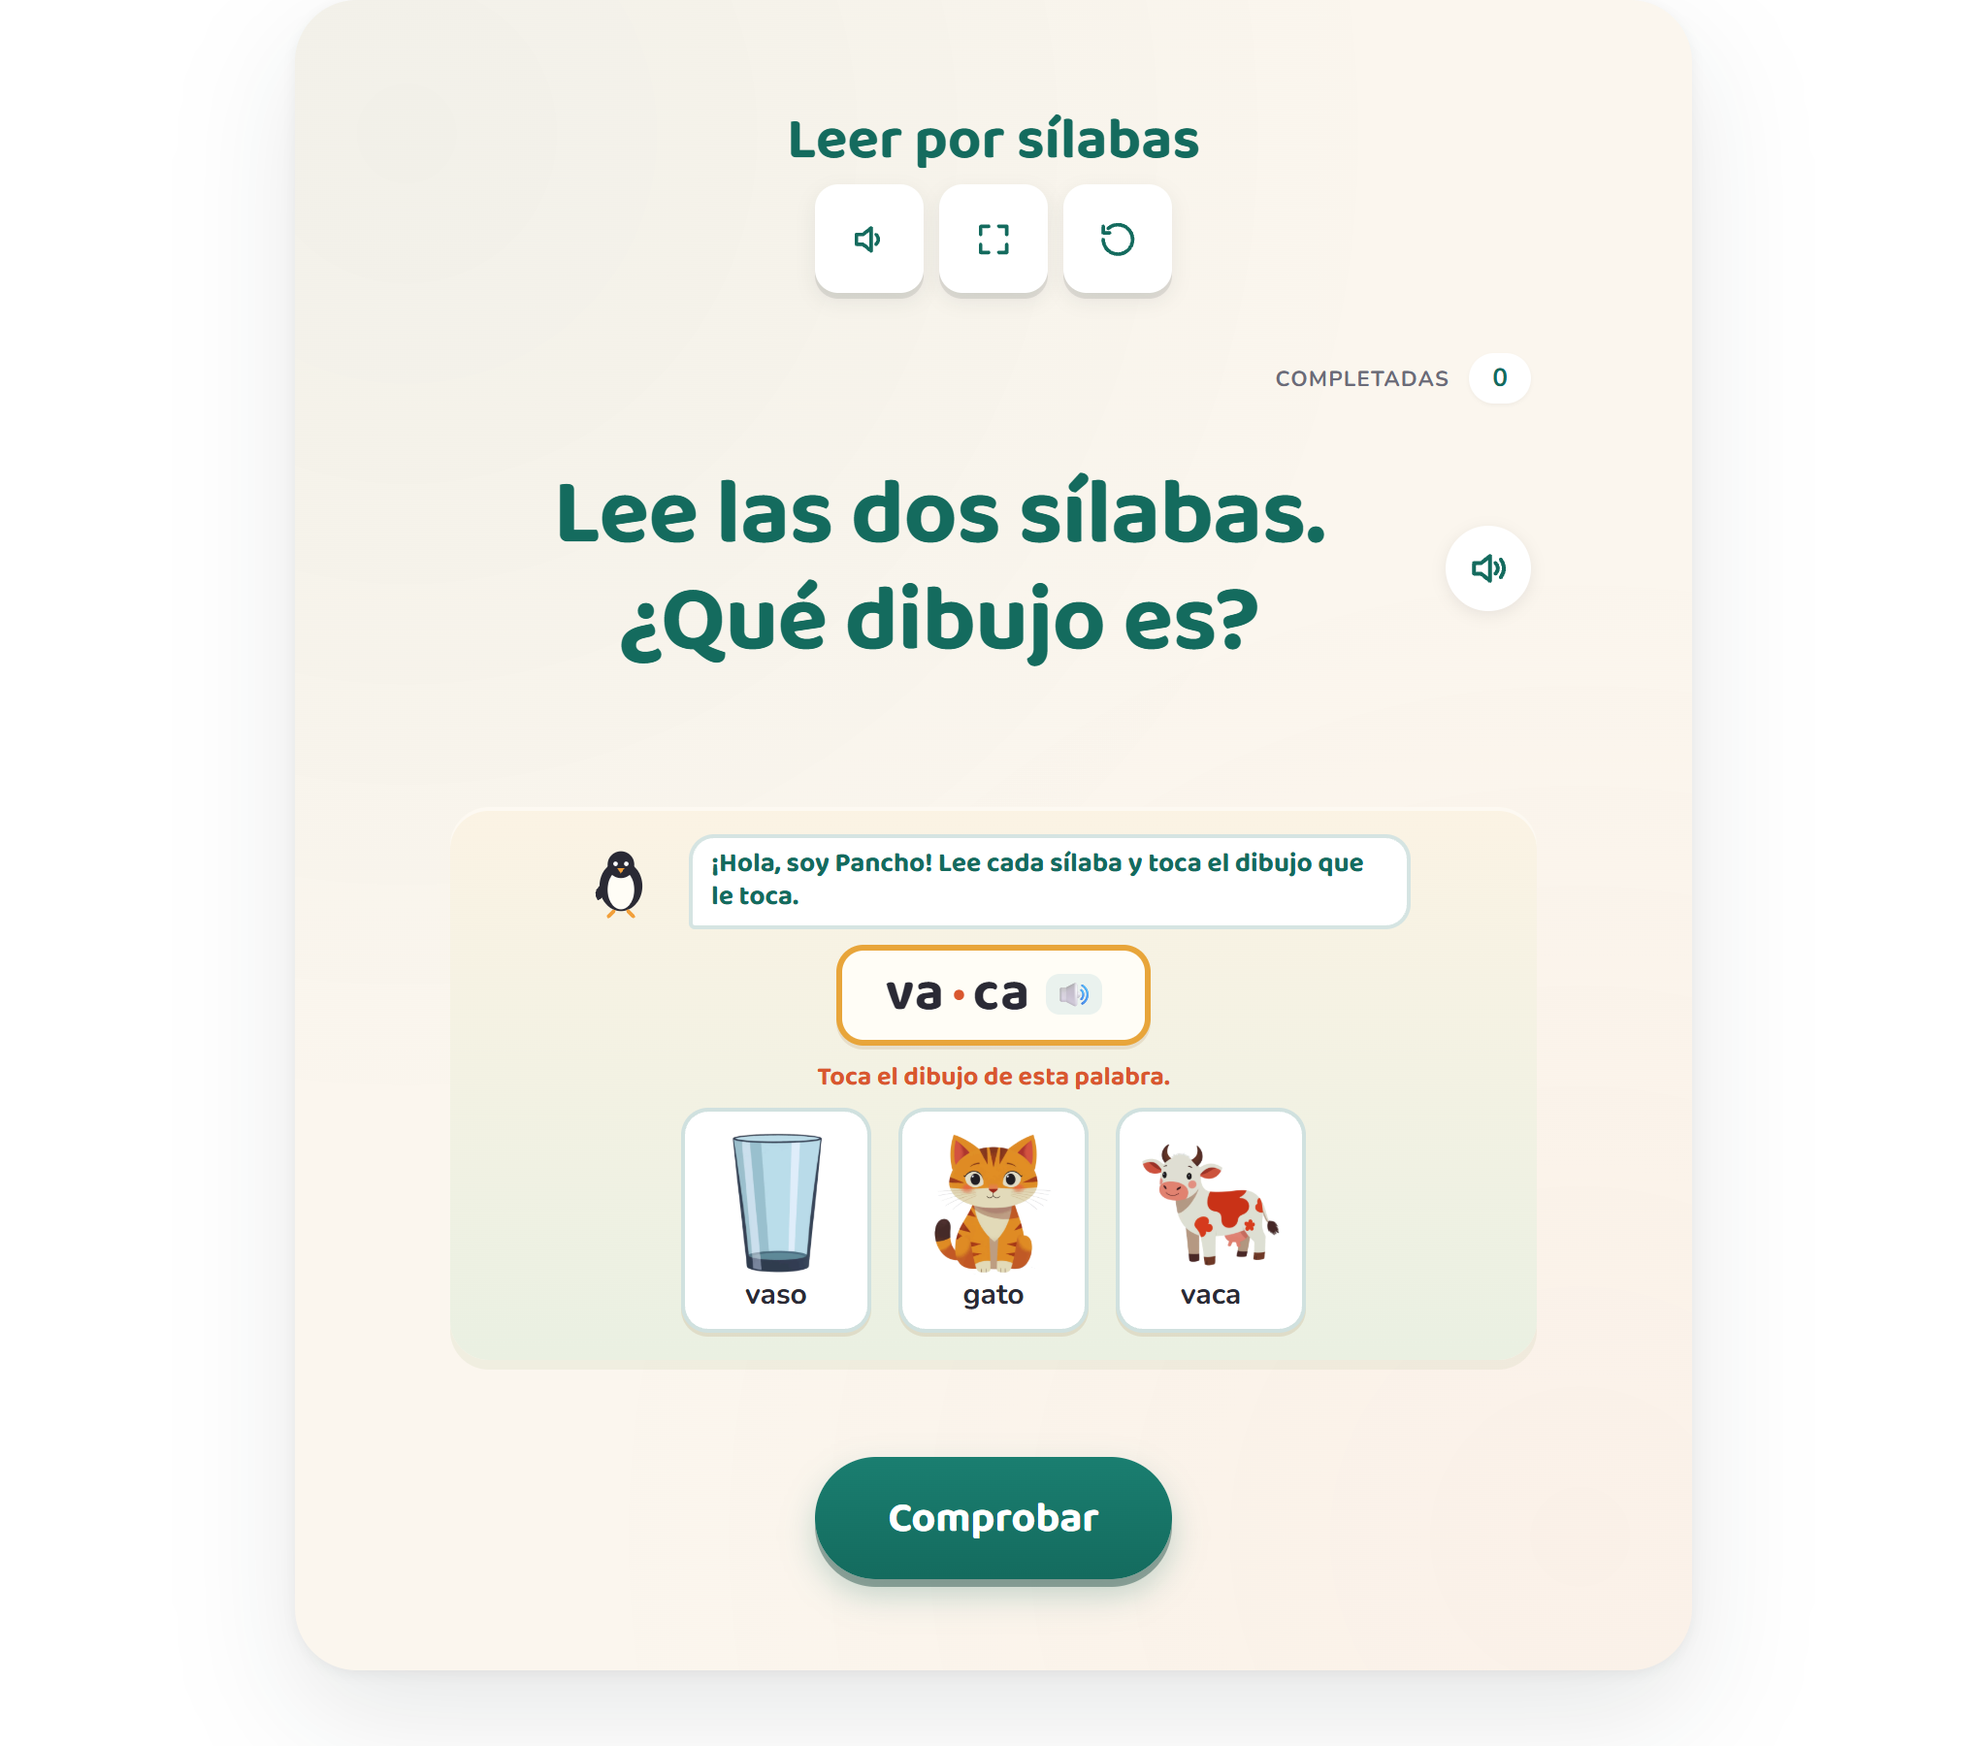
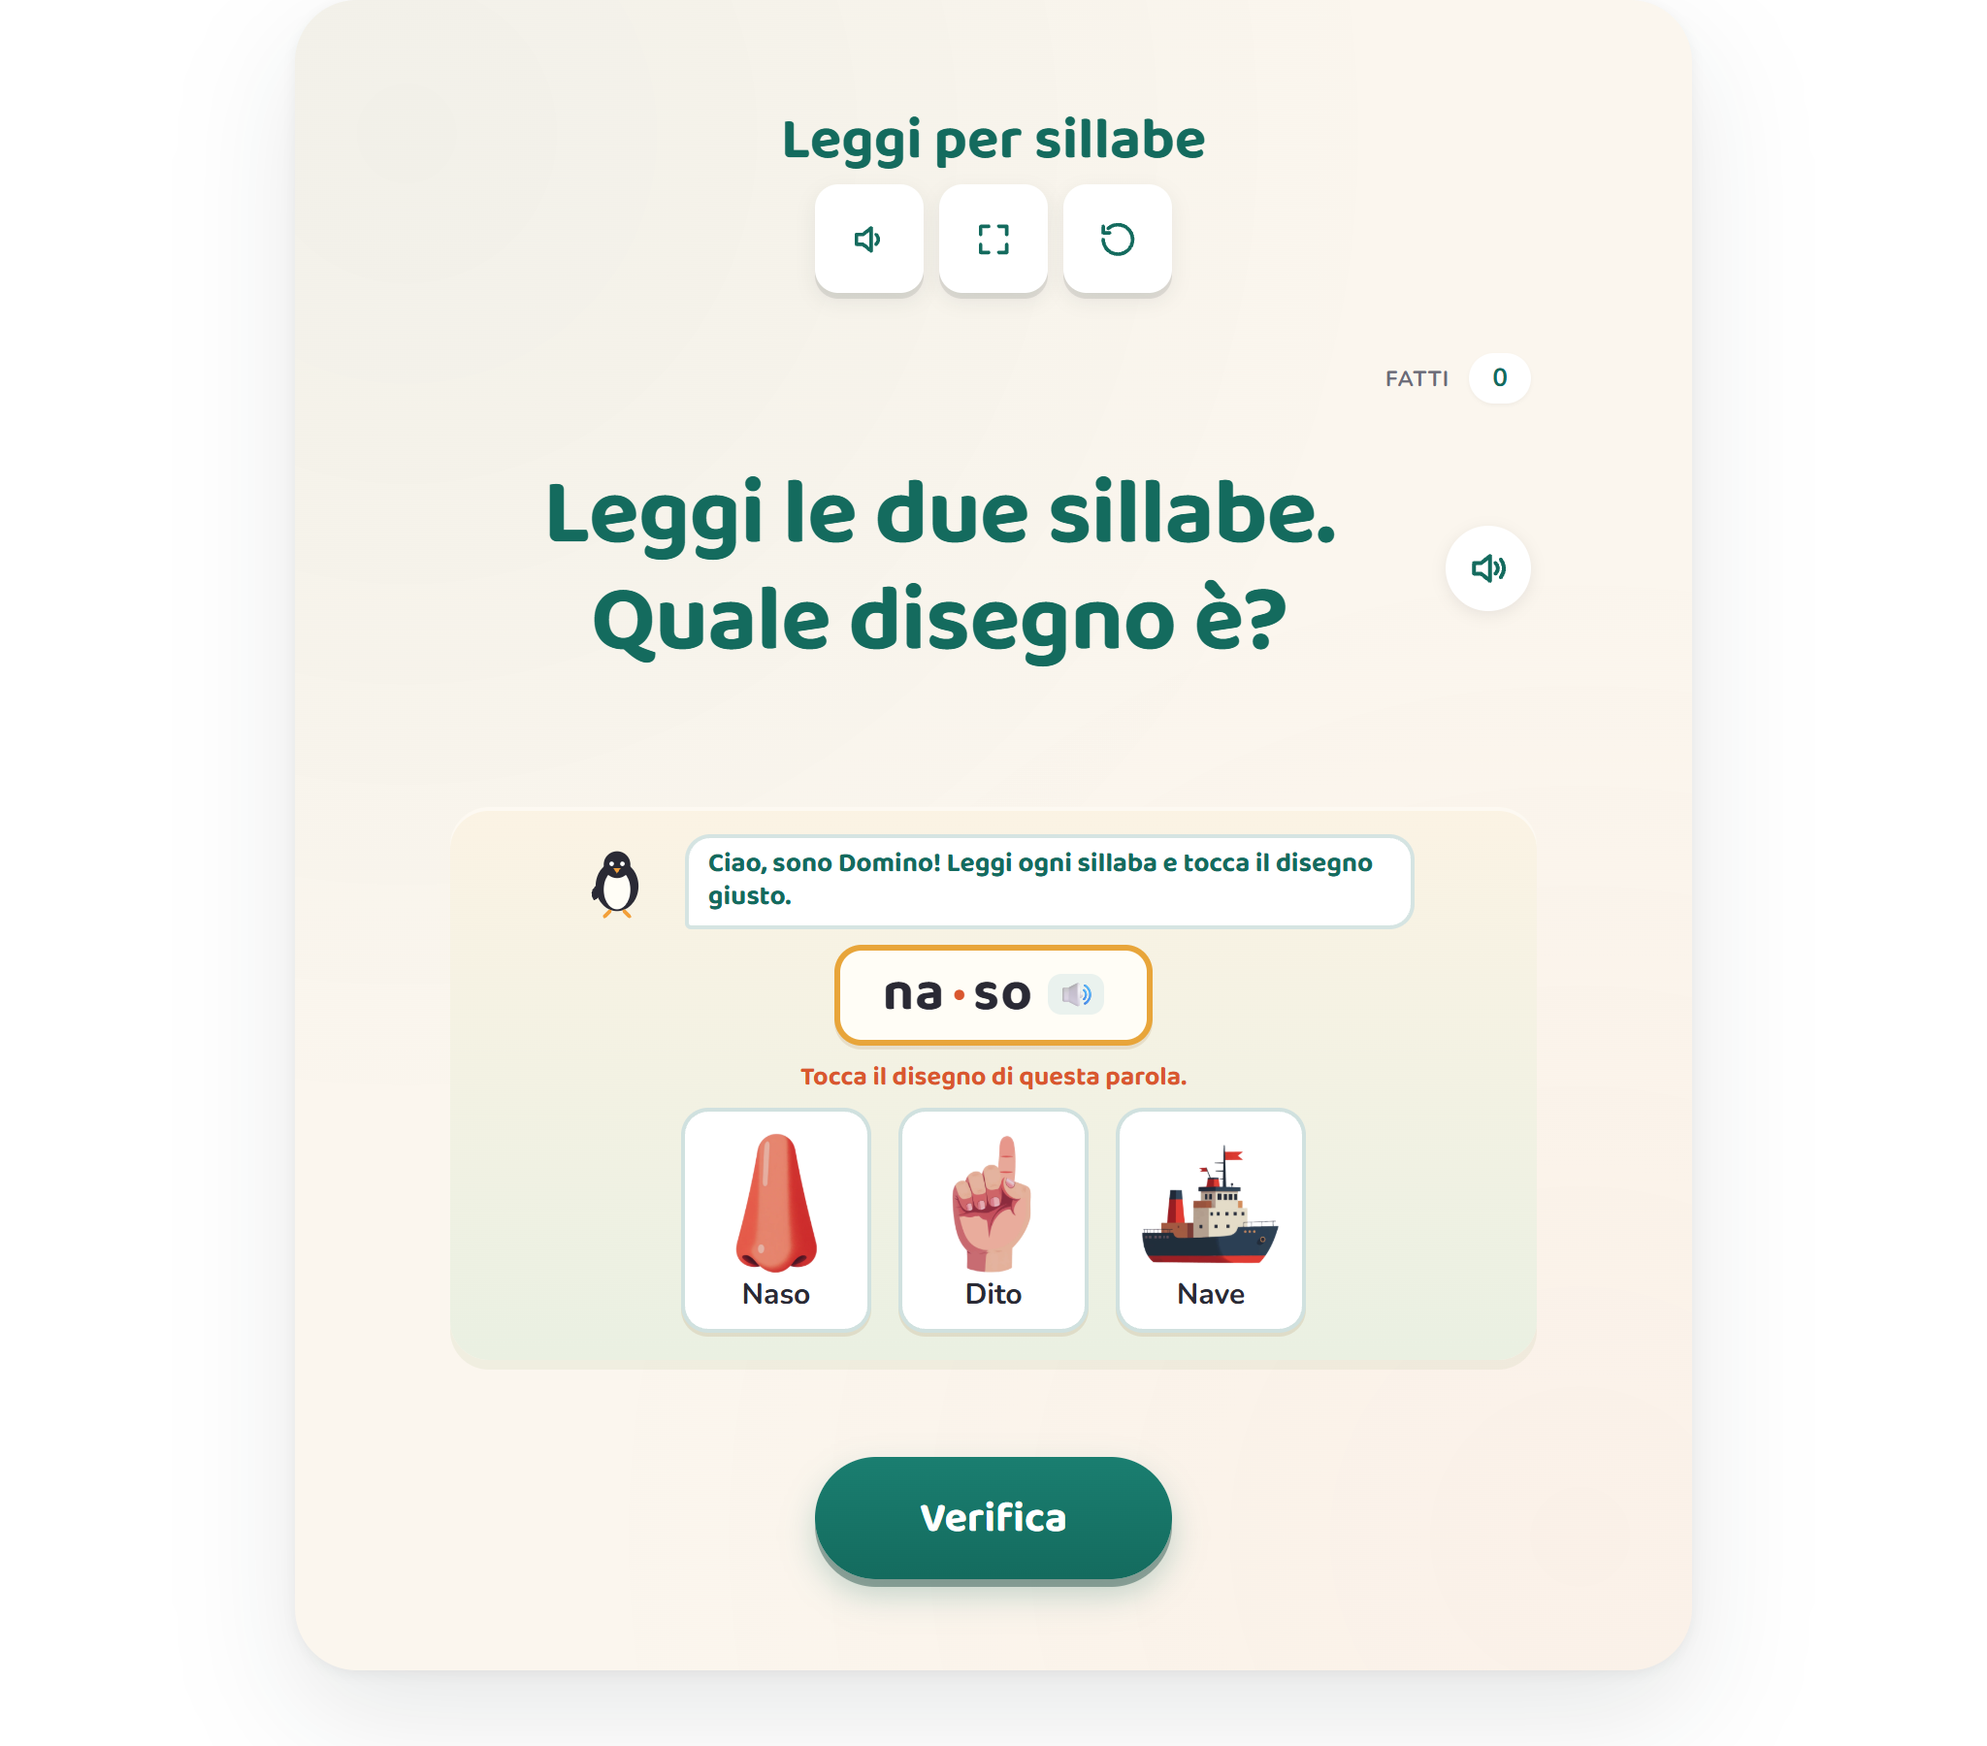
[FEAT][ACTIVITY][it] Italian rebuild -- Leggi per sillabe, two-syllable word reading (domino-two-part RF.1.3.e -> classe prima) + strand override [activity-layer roundsL10n.it + native Italian syllable set, 0 core lines]
#113 in the Italian second-batch fan-out. PHONICS/READING: a two-syllable word
shown split into its syllables (gat·to domino-style); the child reads it and
taps the matching picture among 3. es + pt both fanned it (clean fannable;
Italian reads by syllables).

- 9 rounds (roundsL10n.it), image-constrained: targets gatto/cane/luna/mela/
  naso/pera/rana/topo/palla with correct Italian syllabification (6 CV·CV +
  gat·to/pal·la geminate splits). Each {word (correct choice's EN image-key),
  displayWord, displaySyl, choices:[3×{noun,themeDir,it}]}; the engine reads
  display/labels generically -> 0 display logic change. DECODE-FORCING: >=1
  distractor shares the first syllable (gallo/casa/lupo/mento/nave/penna/rapa/
  toro/pane). All images verified present; Core.grade/oracle confirmed.
- 7 strings.it (title «Leggi per sillabe» / prompt / dominoIntro «Ciao, sono
  Domino!» / theAsk / hintPick / hintWrong / win) + word-aria «ascolta: » +
  penguin-aria «Domino il pinguino». Apostrophe-free; gender-safe win «Sì! Hai
  letto tutte e due le sillabe. 🐧». (⚠ 5 strings were initially under-scoped;
  the un-localized penguin bubble + theAsk were caught by the personal Read and
  fixed before commit -- the #96 grep-the-full-strings-object lesson.)
- GRADE classe prima (manifest grade '1' -> no override needed, = de/es/pt:
  metodo sillabico = alfabetizzazione). STRAND route override «Lettura:
  decodifica» (= #108 read-cvc: sillabe scritte/lette = decodifica strumentale,
[…]

diff --git a/frontend/app/[locale]/activities/[slug]/page.tsx b/frontend/app/[locale]/activities/[slug]/page.tsx
@@ -180,7 +180,7 @@ const STRAND_OVERRIDE: Record<string, Record<string, string>> = {
   'stretch-giraffe.long-short-vowel.rf-1-2-a': { de: 'Sprache und Sprachgebrauch untersuchen' }, // Vokallaenge = analytische Isolation+Klassifikation des betonten Selbstlauts nach dem Merkmal Quantitaet (metasprachlich, wie #106); NOT #102 „Sprechen und Zuhören"; RF hat keinen de-Eintrag in strand-names.ts -> Override setzt den Chip
   'choice-board.read-cvc-word.rf-k-3': { de: 'Lesen – mit Texten und Medien umgehen', es: 'Lectura', pt: 'Leitura: decodificação', it: 'Lettura: decodifica' }, // it: area «Lettura» delle Indicazioni; «decodifica» segnala l'atto strumentale (grafema→fonema) e lo distingue dalla comprensione (specchia pt «Leitura: decodificação»); il default RF «Comprensione del testo» sovra-legge → route override, strand-names.ts NON toccato; es/pt tengono il proprio. // Erstlesen = rezeptiv-lesende Kompetenz (KMK Kompetenzbereich Lesen, „über Lesefaehigkeiten verfuegen"); distinct from #106/#107 „untersuchen"; RF hat keinen de-Eintrag in strand-names.ts -> Override setzt den Chip. es: «Lectura» (leer/decodificar palabras = lectura inicial; el default RF es «Comprensión lectora» sobreestima; distinto de #106 «Conciencia fonémica» + #102 «Conciencia fonológica»). pt «Leitura: decodificação» — objeto BNCC exato (Decodificação/Fluência); o auto-map pt «Leitura/escuta» tem «/escuta» FALSO p/ leitura silenciosa; fica visivelmente do lado da LEITURA, distinto de #106 «Consciência fonêmica» + #102 «Consciência fonológica» (consciência/pré-leitura)
   'choice-board.onset-rime-blend.rf-k-2-c': { de: 'Lesen – mit Texten und Medien umgehen' }, // Lautsynthese = graphem-gestuetzte Leseanbahnung (Vorstufe von #108); nicht #102 auditives „Zuhören" noch #106/#107 „untersuchen"; RF hat keinen de-Eintrag in strand-names.ts -> Override setzt den Chip
-  'domino-two-part.two-syllable.rf-1-3-e': { de: 'Lesen – mit Texten und Medien umgehen', es: 'Lectura', pt: 'Leitura: decodificação' }, // pt: MESMO chip que #108 read-cvc — as sílabas aqui são ESCRITAS/lidas (método silábico = decodificação/leitura), NÃO consciência silábica (oral, #102/#106); RF auto-map pt "Leitura/escuta" tem "/escuta" falso p/ leitura silenciosa. // Silbenlesen = silbenweises Erlesen zweisilbiger Woerter (Silbenmethode, rezeptives Lesen); Bridge von #108 CVC zum fluessigen Lesen, distinct from #109 sub-syllabic; RF hat keinen de-Eintrag -> Override setzt den Chip. es «Lectura» (leer por sílabas / método silábico = lectura inicial; MISMO chip que #108 read-cvc; RF no auto-mapea es → sin override el default falso «Comprensión lectora»)
+  'domino-two-part.two-syllable.rf-1-3-e': { de: 'Lesen – mit Texten und Medien umgehen', es: 'Lectura', pt: 'Leitura: decodificação', it: 'Lettura: decodifica' }, // it: STESSO chip di #108 read-cvc — le sillabe qui sono SCRITTE/lette (metodo sillabico = decodifica/lettura strumentale), NON consapevolezza silabica orale (#102/#106); RF non ha auto-map it → override altrimenti il default falso «Comprensione del testo». classe prima = manifest grade '1' (nessun GRADE override). strand-names.ts NON toccato. // pt: MESMO chip que #108 read-cvc — as sílabas aqui são ESCRITAS/lidas (método silábico = decodificação/leitura), NÃO consciência silábica (oral, #102/#106); RF auto-map pt "Leitura/escuta" tem "/escuta" falso p/ leitura silenciosa. // Silbenlesen = silbenweises Erlesen zweisilbiger Woerter (Silbenmethode, rezeptives Lesen); Bridge von #108 CVC zum fluessigen Lesen, distinct from #109 sub-syllabic; RF hat keinen de-Eintrag -> Override setzt den Chip. es «Lectura» (leer por sílabas / método silábico = lectura inicial; MISMO chip que #108 read-cvc; RF no auto-mapea es → sin override el default falso «Comprensión lectora»)
   'fraction-equiv.same-amount.3-nf-a-3': { de: 'Zahlen und Operationen', fr: 'Nombres et calcul', it: 'Numeri' }, // it: la frazione è un NUMERO → nucleo «Numeri» (i 3 nuclei delle Indicazioni = Numeri / Spazio e figure / Relazioni, dati e previsioni); strand-names.ts non ha una voce it per "Number & Operations—Fractions" (auto-map cadrebbe sull'inglese) → override obbligatorio; = es/pt che mappano le frazioni al loro strand-numeri. strand-names.ts NON toccato. // KMK Mathematik Kompetenzbereich — Bruchteile = Zahlvorstellung; Number&Operations—Fractions hat keinen de/fr-Eintrag in strand-names.ts -> Override setzt Chip+JSON-LD (effStrand routes all surfaces through it; fr = domaine « Nombres et calcul »)
   'fox-forge.fraction.3-nf-a-1': { fr: 'Nombres et calcul', it: 'Numeri' },  // Number&Operations—Fractions has no fr in strand-names.ts (only en+de); effStrand routes the fr chip+JSON-LD through this override → strand-names.ts stays byte-identical. de keeps its strand-names.ts route (Zahlen und Operationen). IT: le frazioni SONO numeri → nucleo «Numeri» (i 3 nuclei = Numeri / Spazio e figure / Relazioni, dati e previsioni; niente nucleo frazioni in Italia). Routed via page.tsx override come fr → strand-names.ts NON toccato. GRADE = classe terza (manifest '3', nessun override): le frazioni sono introdotte in terza nelle Indicazioni; ALLINEA es 3.º + de Klasse 3; NON armonizzare a fr CM1 / pt 4º ano (loro rinviano; l'Italia no)
   'daisy-plate-stack.plurals.l-k-1-c': { de: 'Sprache und Sprachgebrauch untersuchen' }, // Numerus/Pluralbildung = grammatisch-morphologisch (nicht olive „Wortschatz"=semantisch); Language hat keinen de-Eintrag in strand-names.ts -> Override setzt den Chip
@@ -556,7 +556,7 @@ export default async function ActivityPage({ params }: { params: PageParams }) {
   // applied here to the iframe-loaded wrapper URL (the only un-busted
   // link in the activity-page → mini-tool chain). The wrapper reads
   // only `activity` / `lang` / `embed` params; `v` is harmless to it.
-  const ACTIVITY_WRAPPER_VERSION = '9.561';
+  const ACTIVITY_WRAPPER_VERSION = '9.562';
 
   const iframeSrc =
     `/mini-tools/${row.tool}.html?v=${ACTIVITY_WRAPPER_VERSION}` +

diff --git a/mini tools/domino-two-part-activity.js b/mini tools/domino-two-part-activity.js
@@ -26,7 +26,7 @@
   function shuffle(arr) { var a = arr.slice(), i, j, t; for (i = a.length - 1; i > 0; i--) { j = Math.floor(Math.random() * (i + 1)); t = a[i]; a[i] = a[j]; a[j] = t; } return a; }
 
   function penguinSVG() {
-    return '<svg class="dtp-pen-svg" viewBox="0 0 100 100" role="img" aria-label="' + (LANG === 'pt' ? 'Pingo, o pinguim' : 'Domino the penguin') + '">' +
+    return '<svg class="dtp-pen-svg" viewBox="0 0 100 100" role="img" aria-label="' + (LANG === 'pt' ? 'Pingo, o pinguim' : LANG === 'it' ? 'Domino il pinguino' : 'Domino the penguin') + '">' +
       '<ellipse cx="50" cy="56" rx="24" ry="28" fill="#2A2A35"/>' +                 /* black body */
       '<ellipse cx="50" cy="60" rx="15" ry="22" fill="#FFFDF6"/>' +                /* white belly */
       '<circle cx="50" cy="32" r="15" fill="#2A2A35"/>' +                           /* head */
@@ -41,13 +41,13 @@
     id: 'domino-two-part-activity',
 
     strings: {
-      title: { en: "Domino's Two-Part Words", de: 'Silben lesen', es: 'Leer por sílabas', pt: 'Leia por sílabas' },
-      prompt: { en: 'Read both parts — which picture?', de: 'Lies beide Silben – welches Bild?', es: 'Lee las dos sílabas. ¿Qué dibujo es?', pt: 'Leia as duas sílabas. Que desenho é?' },
-      dominoIntro: { en: 'Read each part, then blend them — which picture is it?', de: 'Hallo, ich bin Pauli! Lies jede Silbe – dann tippe das passende Bild an.', es: '¡Hola, soy Pancho! Lee cada sílaba y toca el dibujo que le toca.', pt: 'Oi, eu sou o Pingo! Leia cada sílaba e toque no desenho.' },
-      theAsk: { en: 'Tap the picture this word names.', de: 'Tippe das Bild an, das dieses Wort zeigt.', es: 'Toca el dibujo de esta palabra.', pt: 'Toque no desenho desta palavra.' },
-      hintPick: { en: 'Say the first part, then the second — tap a picture!', de: 'Lies das Wort ruhig: erst die erste Silbe, dann die zweite – tippe ein Bild an.', es: 'Di la primera sílaba, luego la segunda. ¡Toca un dibujo!', pt: 'Diga a primeira sílaba, depois a segunda. Toque num desenho!' },
-      hintWrong: { en: "Blend the two parts slowly and try once more.", de: 'Fast! Lies noch einmal beide Silben und hör genau hin.', es: 'Casi. Junta las dos sílabas otra vez, sin prisa.', pt: 'Quase! Junte as duas sílabas de novo, sem pressa.' },
-      win: { en: 'Yes! You read both parts. 🐧', de: 'Super gelesen! Du hast jede Silbe erkannt. 🐧', es: '¡Muy bien! Leíste las dos sílabas. 🐧', pt: 'Muito bem! Você leu as duas sílabas. 🐧' }
+      title: { en: "Domino's Two-Part Words", de: 'Silben lesen', es: 'Leer por sílabas', pt: 'Leia por sílabas', it: 'Leggi per sillabe' },
+      prompt: { en: 'Read both parts — which picture?', de: 'Lies beide Silben – welches Bild?', es: 'Lee las dos sílabas. ¿Qué dibujo es?', pt: 'Leia as duas sílabas. Que desenho é?', it: 'Leggi le due sillabe. Quale disegno è?' },
+      dominoIntro: { en: 'Read each part, then blend them — which picture is it?', de: 'Hallo, ich bin Pauli! Lies jede Silbe – dann tippe das passende Bild an.', es: '¡Hola, soy Pancho! Lee cada sílaba y toca el dibujo que le toca.', pt: 'Oi, eu sou o Pingo! Leia cada sílaba e toque no desenho.', it: 'Ciao, sono Domino! Leggi ogni sillaba e tocca il disegno giusto.' },
+      theAsk: { en: 'Tap the picture this word names.', de: 'Tippe das Bild an, das dieses Wort zeigt.', es: 'Toca el dibujo de esta palabra.', pt: 'Toque no desenho desta palavra.', it: 'Tocca il disegno di questa parola.' },
+      hintPick: { en: 'Say the first part, then the second — tap a picture!', de: 'Lies das Wort ruhig: erst die erste Silbe, dann die zweite – tippe ein Bild an.', es: 'Di la primera sílaba, luego la segunda. ¡Toca un dibujo!', pt: 'Diga a primeira sílaba, depois a segunda. Toque num desenho!', it: 'Leggi la prima sillaba, poi la seconda. Tocca un disegno!' },
+      hintWrong: { en: "Blend the two parts slowly and try once more.", de: 'Fast! Lies noch einmal beide Silben und hör genau hin.', es: 'Casi. Junta las dos sílabas otra vez, sin prisa.', pt: 'Quase! Junte as duas sílabas de novo, sem pressa.', it: 'Quasi! Unisci le due sillabe con calma e riprova.' },
+      win: { en: 'Yes! You read both parts. 🐧', de: 'Super gelesen! Du hast jede Silbe erkannt. 🐧', es: '¡Muy bien! Leíste las dos sílabas. 🐧', pt: 'Muito bem! Você leu as duas sílabas. 🐧', it: 'Sì! Hai letto tutte e due le sillabe. 🐧' }
     },
     defaults: {},
 
@@ -82,7 +82,7 @@
       root.appendChild(row);
 
       // the split word
-      var wordBox = api.el('button', 'dtp-word'); wordBox.type = 'button'; wordBox.setAttribute('aria-label', (LANG === 'de' ? 'anhören: ' : LANG === 'es' ? 'escuchar: ' : LANG === 'pt' ? 'ouvir: ' : 'hear ') + v.word);
+      var wordBox = api.el('button', 'dtp-word'); wordBox.type = 'button'; wordBox.setAttribute('aria-label', (LANG === 'de' ? 'anhören: ' : LANG === 'es' ? 'escuchar: ' : LANG === 'pt' ? 'ouvir: ' : LANG === 'it' ? 'ascolta: ' : 'hear ') + v.word);
       var inner = '';
       v.syl.forEach(function (s, i) {
         if (i > 0) inner += '<span class="dtp-dot">·</span>';

diff --git a/mini tools/domino-two-part-activity.html b/mini tools/domino-two-part-activity.html
@@ -17,7 +17,7 @@
        NOTE: bump ?v=N on EVERY change to domino-two-part-activity.js / read-bisyllable-core.js (§A.13.42). -->
   <script src="/mini-tools/lcs-shell.js?v=5"></script>
   <script src="/mini-tools/read-bisyllable-core.js?v=1"></script>
-  <script src="/mini-tools/domino-two-part-activity.js?v=4"></script>
+  <script src="/mini-tools/domino-two-part-activity.js?v=5"></script>
   <script>
     LCS.mount(DominoTwoPartActivity, { mount: '#lcs-root' });
   </script>
